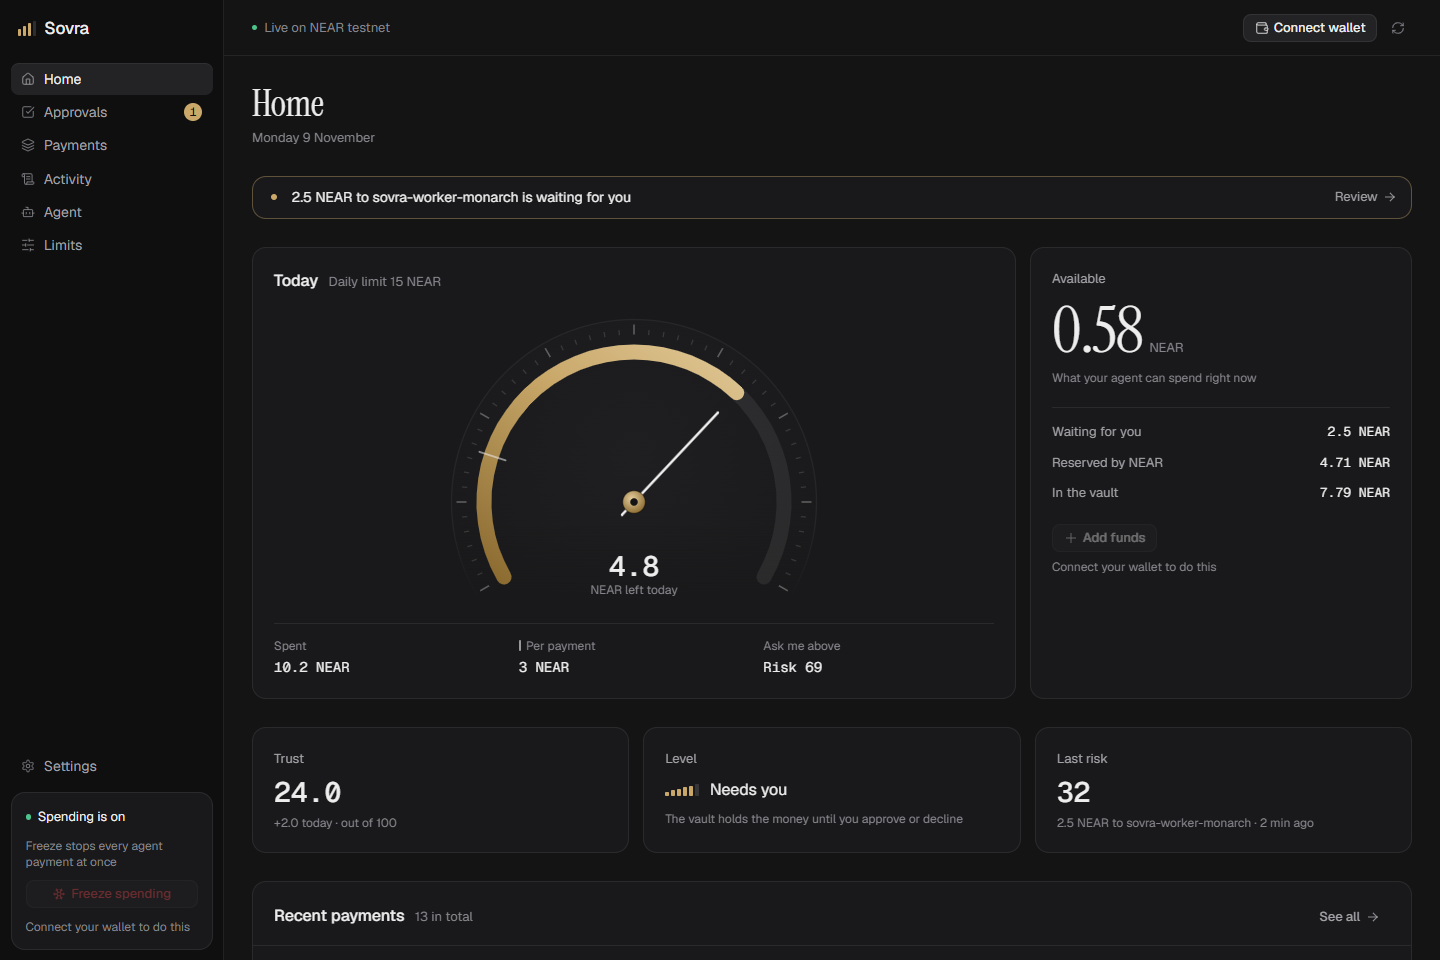
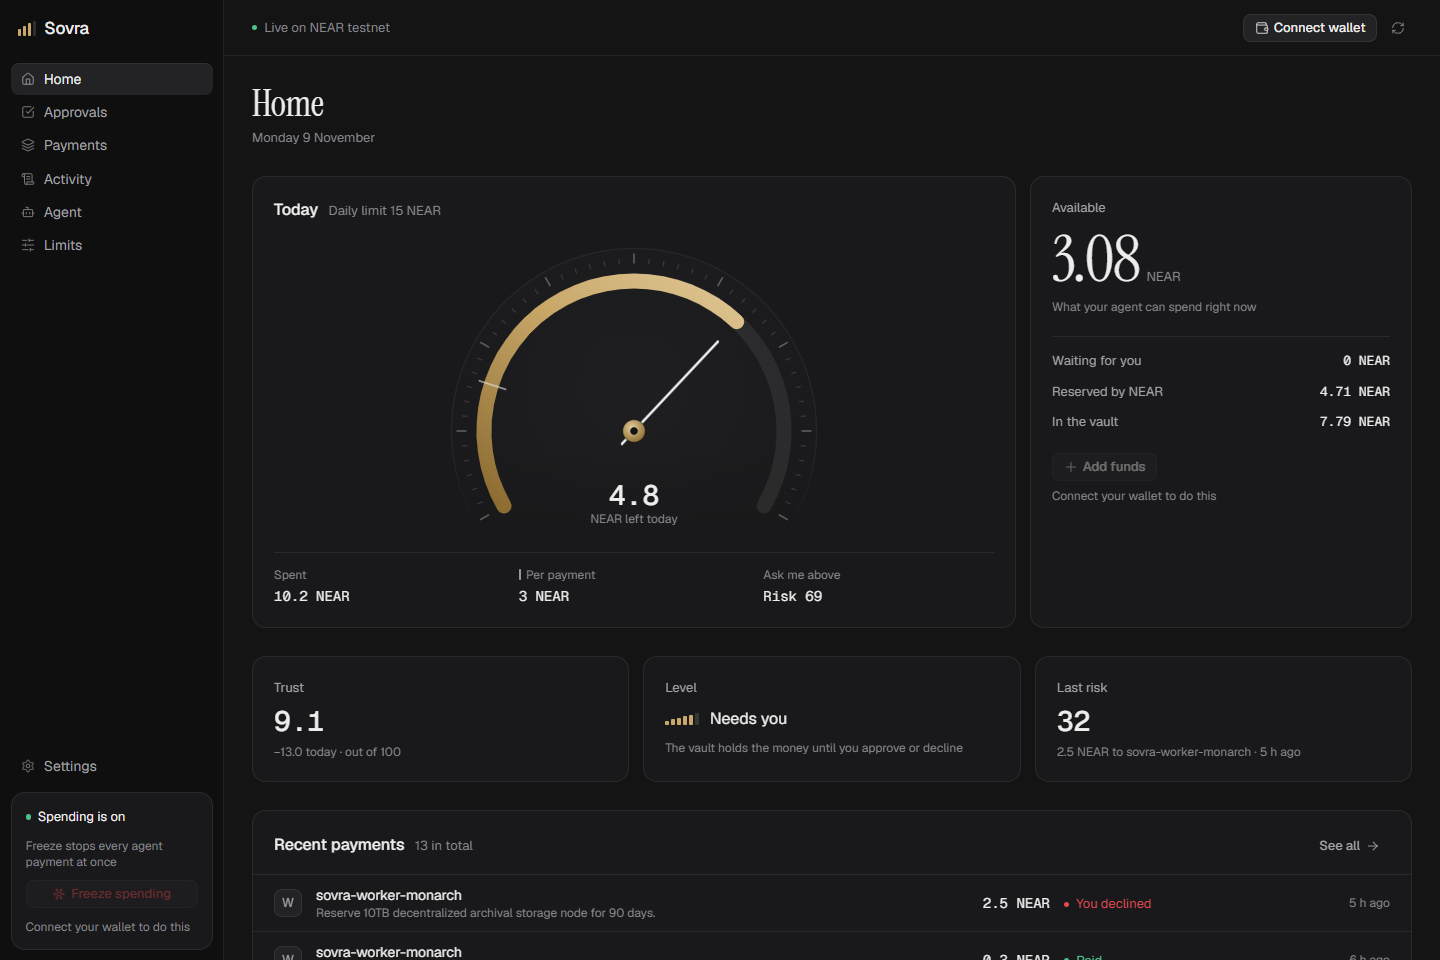
docs: Agent screenshots after rebuild

diff --git a/docs/screenshots/README.md b/docs/screenshots/README.md
@@ -8,7 +8,7 @@ The UI is being rebuilt screen by screen from [design.md](../../design.md). Scre
 | File | Screen | State |
 |---|---|---|
 | `01-home.png` | Home: allowance dial, available balance, trust / level / last risk, waiting banner, recent payments | Rebuilt |
-| `02-agent.png` | Agent | Legacy |
+| `02-agent.png` | Agent: trust over 7 days with the cause of each change, how trust moves, the six levels, baseline facts | Rebuilt |
 | `03-payments.png` | Payments: filters with counts, search, plain-language outcomes | Rebuilt |
 | `04-evidence-drawer.png` | Payment drawer: an owner-approved 2.5 NEAR payment, why it waited, risk check, the agent's words, proof | Rebuilt |
 | `05-approvals.png` | Approvals: a 2.5 NEAR payment held at level 5 as a slip with the countdown ring, plus recent decisions | Rebuilt |
@@ -18,3 +18,4 @@ The UI is being rebuilt screen by screen from [design.md](../../design.md). Scre
 | `09-mobile-payments.png` | Payments at 390 px | Rebuilt |
 | `10-mobile-approvals.png` | Approvals at 390 px | Rebuilt |
 | `11-mobile-activity.png` | Activity at 390 px | Rebuilt |
+| `12-mobile-agent.png` | Agent at 390 px | Rebuilt |
